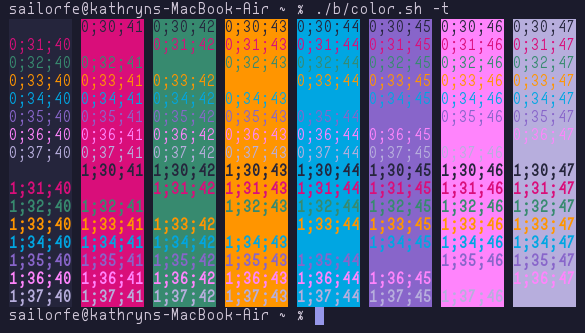
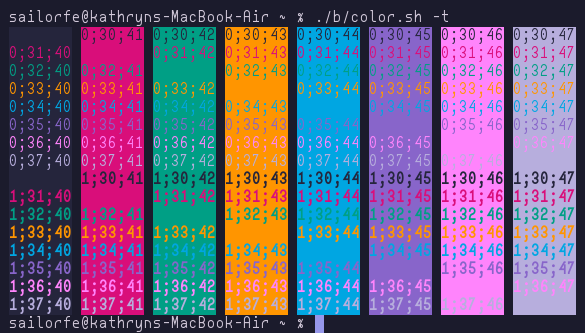
dark green

diff --git a/README.md b/README.md
@@ -14,7 +14,7 @@
 | ------------ | --------- | ---------- |
 | black        | `#5a3a57` | `#25253c`  |
 | red          | `#ff0083` | `#d90e7a`  |
-| green        | `#00a294` | `#378a6f`  |
+| green        | `#00a294` | `#009f85`  |
 | yellow       | `#ec8300` | `#ff9500`  |
 | blue         | `#0c1eb8` | `#00a6e2`  |
 | magenta      | `#78008b` | `#8865ca`  |
